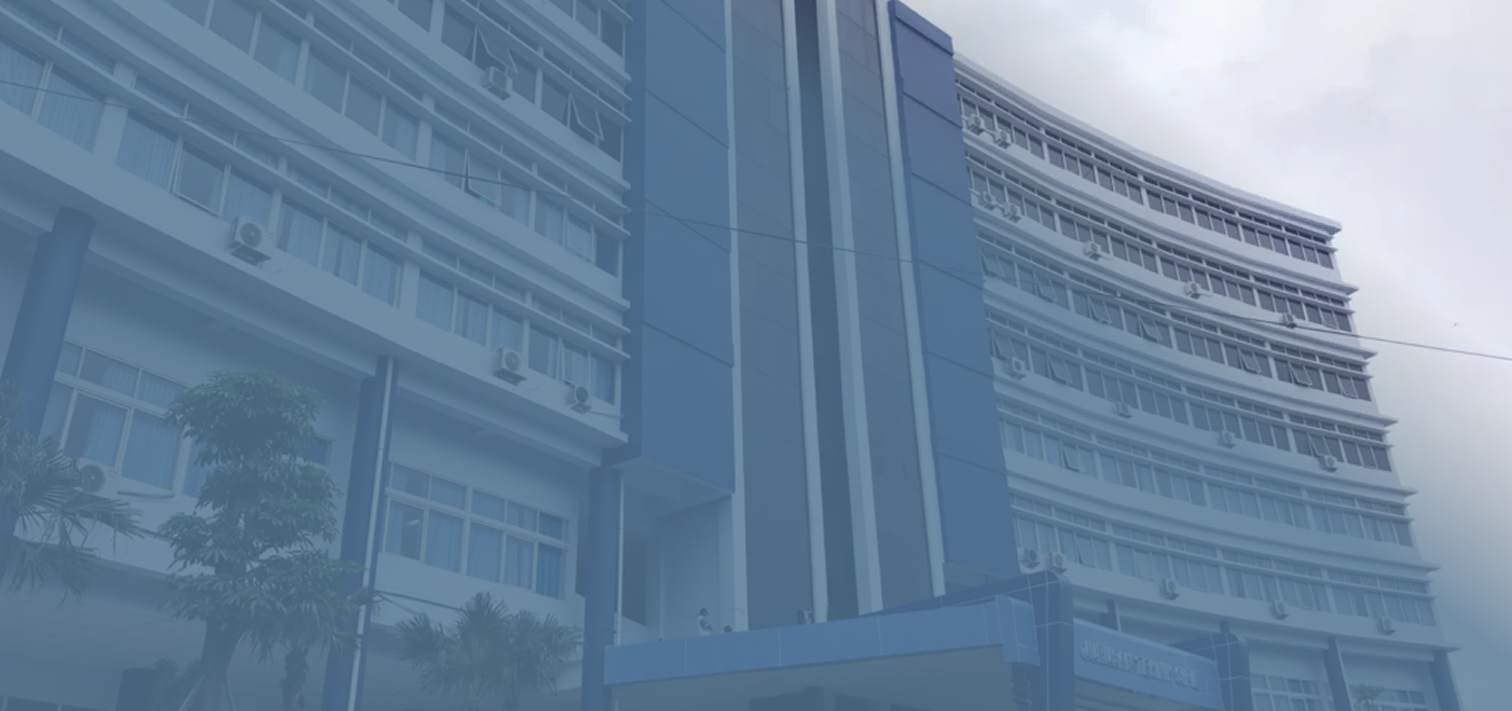
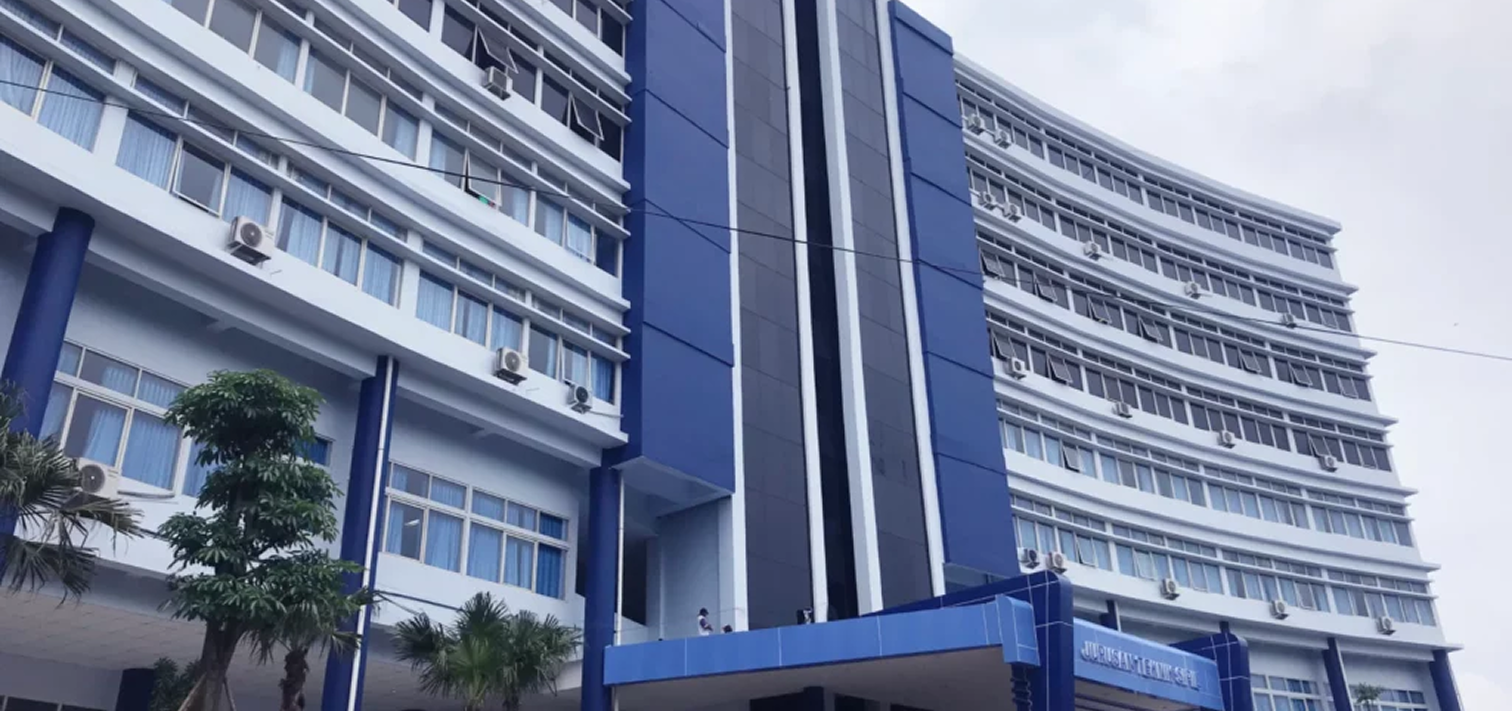
FE_Perbaikan

diff --git a/module/team.php b/module/team.php
@@ -11,7 +11,7 @@
                 <h3 class="team-subtitle team-subtitle-left">Head of Laboratory</h3>
                 <div class="team-card head-card">
                     <div class="team-photo">
-                        <img src="<?php echo $root; ?>assets/img/home/Teams/Banni.jpeg"
+                        <img src="<?php echo $root; ?>assets/img/home/Teams/banni.jpeg"
                             alt="Dr. Eng. Banni Satria Andoko">
                     </div>
                     <p class="team-name head-name">
@@ -19,9 +19,9 @@
                         S.Kom., M.MSI.
                     </p>
                     <div class="team-social">
-                        <a href="#"><img src="<?php echo $root; ?>assets/img/home/icon/Twitter.png" alt="Twitter"></a>
-                        <a href="#"><img src="<?php echo $root; ?>assets/img/home/icon/Facebook.png" alt="Facebook"></a>
-                        <a href="#"><img src="<?php echo $root; ?>assets/img/home/icon/Instagram.png" alt="Instagram"></a>
+                        <a href="#"><img src="<?php echo $root; ?>assets/img/home/icon/twitter.png" alt="Twitter"></a>
+                        <a href="#"><img src="<?php echo $root; ?>assets/img/home/icon/facebook.png" alt="Facebook"></a>
+                        <a href="#"><img src="<?php echo $root; ?>assets/img/home/icon/instagram.png" alt="Instagram"></a>
                     </div>
                 </div>
             </div>
@@ -41,9 +41,9 @@
                                 S.Pd., M.Kom.
                             </p>
                             <div class="team-social">
-                                <a href="#"><img src="<?php echo $root; ?>assets/img/home/icon/Twitter.png" alt="Twitter"></a>
-                                <a href="#"><img src="<?php echo $root; ?>assets/img/home/icon/Facebook.png" alt="Facebook"></a>
-                                <a href="#"><img src="<?php echo $root; ?>assets/img/home/icon/Instagram.png" alt="Instagram"></a>
+                                <a href="#"><img src="<?php echo $root; ?>assets/img/home/icon/twitter.png" alt="Twitter"></a>
+                                <a href="#"><img src="<?php echo $root; ?>assets/img/home/icon/facebook.png" alt="Facebook"></a>
+                                <a href="#"><img src="<?php echo $root; ?>assets/img/home/icon/instagram.png" alt="Instagram"></a>
                             </div>
                         </div>
 
@@ -57,9 +57,9 @@
                                 M.MKom.
                             </p>
                             <div class="team-social">
-                                <a href="#"><img src="<?php echo $root; ?>assets/img/home/icon/Twitter.png" alt="Twitter"></a>
-                                <a href="#"><img src="<?php echo $root; ?>assets/img/home/icon/Facebook.png" alt="Facebook"></a>
-                                <a href="#"><img src="<?php echo $root; ?>assets/img/home/icon/Instagram.png" alt="Instagram"></a>
+                                <a href="#"><img src="<?php echo $root; ?>assets/img/home/icon/twitter.png" alt="Twitter"></a>
+                                <a href="#"><img src="<?php echo $root; ?>assets/img/home/icon/facebook.png" alt="Facebook"></a>
+                                <a href="#"><img src="<?php echo $root; ?>assets/img/home/icon/instagram.png" alt="Instagram"></a>
                             </div>
                         </div>
 
@@ -73,9 +73,9 @@
                                 S.Kom., M.Kom
                             </p>
                             <div class="team-social">
-                                <a href="#"><img src="<?php echo $root; ?>assets/img/home/icon/Twitter.png" alt="Twitter"></a>
-                                <a href="#"><img src="<?php echo $root; ?>assets/img/home/icon/Facebook.png" alt="Facebook"></a>
-                                <a href="#"><img src="<?php echo $root; ?>assets/img/home/icon/Instagram.png" alt="Instagram"></a>
+                                <a href="#"><img src="<?php echo $root; ?>assets/img/home/icon/twitter.png" alt="Twitter"></a>
+                                <a href="#"><img src="<?php echo $root; ?>assets/img/home/icon/facebook.png" alt="Facebook"></a>
+                                <a href="#"><img src="<?php echo $root; ?>assets/img/home/icon/instagram.png" alt="Instagram"></a>
                             </div>
                         </div>
 
@@ -89,9 +89,9 @@
                                 ST., M.MT.
                             </p>
                             <div class="team-social">
-                                <a href="#"><img src="<?php echo $root; ?>assets/img/home/icon/Twitter.png" alt="Twitter"></a>
-                                <a href="#"><img src="<?php echo $root; ?>assets/img/home/icon/Facebook.png" alt="Facebook"></a>
-                                <a href="#"><img src="<?php echo $root; ?>assets/img/home/icon/Instagram.png" alt="Instagram"></a>
+                                <a href="#"><img src="<?php echo $root; ?>assets/img/home/icon/twitter.png" alt="Twitter"></a>
+                                <a href="#"><img src="<?php echo $root; ?>assets/img/home/icon/facebook.png" alt="Facebook"></a>
+                                <a href="#"><img src="<?php echo $root; ?>assets/img/home/icon/instagram.png" alt="Instagram"></a>
                             </div>
                         </div>
 
@@ -105,9 +105,9 @@
                                 S.Kom., M.T.
                             </p>
                             <div class="team-social">
-                                <a href="#"><img src="<?php echo $root; ?>assets/img/home/icon/Twitter.png" alt="Twitter"></a>
-                                <a href="#"><img src="<?php echo $root; ?>assets/img/home/icon/Facebook.png" alt="Facebook"></a>
-                                <a href="#"><img src="<?php echo $root; ?>assets/img/home/icon/Instagram.png" alt="Instagram"></a>
+                                <a href="#"><img src="<?php echo $root; ?>assets/img/home/icon/twitter.png" alt="Twitter"></a>
+                                <a href="#"><img src="<?php echo $root; ?>assets/img/home/icon/facebook.png" alt="Facebook"></a>
+                                <a href="#"><img src="<?php echo $root; ?>assets/img/home/icon/instagram.png" alt="Instagram"></a>
                             </div>
                         </div>
 
@@ -121,9 +121,9 @@
                                 Pramudhita,S.T., M.T.
                             </p>
                             <div class="team-social">
-                                <a href="#"><img src="<?php echo $root; ?>assets/img/home/icon/Twitter.png" alt="Twitter"></a>
-                                <a href="#"><img src="<?php echo $root; ?>assets/img/home/icon/Facebook.png" alt="Facebook"></a>
-                                <a href="#"><img src="<?php echo $root; ?>assets/img/home/icon/Instagram.png" alt="Instagram"></a>
+                                <a href="#"><img src="<?php echo $root; ?>assets/img/home/icon/twitter.png" alt="Twitter"></a>
+                                <a href="#"><img src="<?php echo $root; ?>assets/img/home/icon/facebook.png" alt="Facebook"></a>
+                                <a href="#"><img src="<?php echo $root; ?>assets/img/home/icon/instagram.png" alt="Instagram"></a>
                             </div>
                         </div>
                     </div>

diff --git a/module/research.php b/module/research.php
@@ -16,7 +16,7 @@
                     </p>
                 </div>
                 <div class="research-card-icon">
-                    <img src="<?php echo $root; ?>assets/img/home/icon/AI.png" alt="AI &amp; Learning Analytics icon">
+                    <img src="<?php echo $root; ?>assets/img/home/icon/ai.png" alt="AI &amp; Learning Analytics icon">
                 </div>
             </article>
             <article class="research-card reveal" data-reveal-delay="100">
@@ -49,7 +49,7 @@
                     </p>
                 </div>
                 <div class="research-card-icon">
-                    <img src="<?php echo $root; ?>assets/img/home/icon/E_learning.png" alt="E-Learning Development icon">
+                    <img src="<?php echo $root; ?>assets/img/home/icon/e_learning.png" alt="E-Learning Development icon">
                 </div>
             </article>
         </div>

diff --git a/module/about.php b/module/about.php
@@ -22,7 +22,7 @@
             <a href="#research-focus" class="about-btn">View Research Focus</a>
         </div>
         <div class="about-right reveal reveal-from-right" data-reveal-delay="100">
-            <img src="<?php echo $root; ?>assets/img/home/aboutIMG.png" alt="About Photo" class="about-img">
+            <img src="<?php echo $root; ?>assets/img/home/about_img.png" alt="About Photo" class="about-img">
         </div>
     </div>
 </section>

diff --git a/module/hero.php b/module/hero.php
@@ -1,5 +1,5 @@
 <section class="hero-inlet" id="hero">
-    <img src="<?php echo $root; ?>assets/img/home/Hero1.png" class="hero-bg" alt="InLET">
+    <img src="<?php echo $root; ?>assets/img/home/hero.png" class="hero-bg" alt="InLET">
     <div class="hero-overlay"></div>
     <div class="hero-content">
         <h1>Information & Learning<br>Engineering Laboratory<br>(InLET)</h1>
